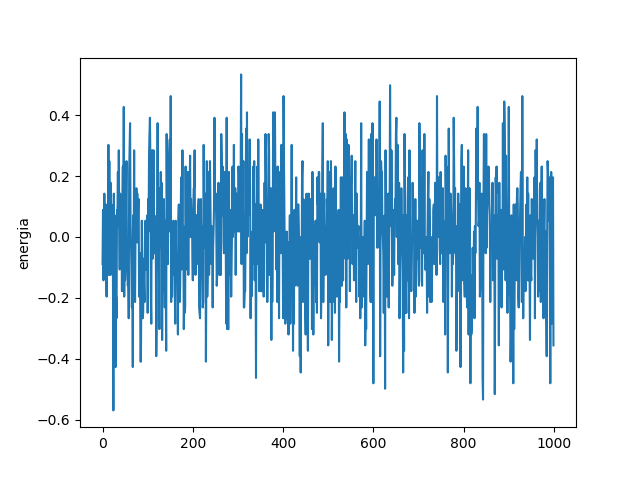
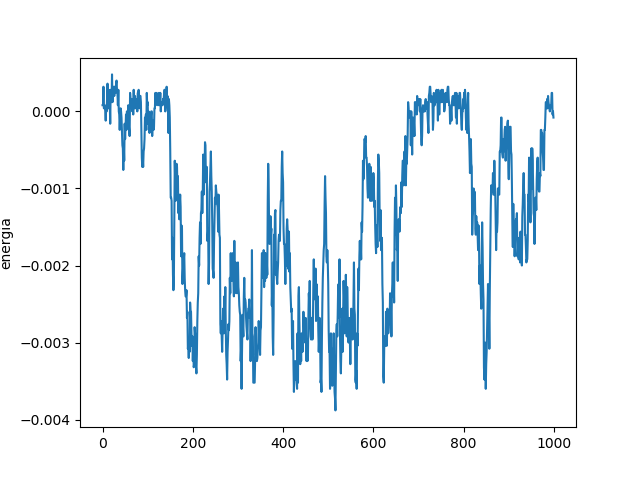
Add files via upload

diff --git a/model.py b/model.py
@@ -11,17 +11,17 @@ def sistema(x):
     return red
     
 #funcion que mide la magnetizacion presente en la red
-def med_magnetizacion(red,x):
+def med_magnetizacion(red):
     m=np.sum(red)
-    return m/x**2
+    return m
 
 #funcion que calcula la energia del sistema sin el efecto del campo magnetico
-def energia(red,x):
+def energia(red):
     e=0
-    for i in range(x):
-        for j in range(x):
-            e += -1*red[i,j]*(red[fronteras(i-1),j] + red[fronteras(i+1),j]) + red[i,fronteras(j+1)] + red[i,fronteras(j-1)]
-    return e/x**2
+    for i in range(len(red)):
+        for j in range(len(red)):
+            e += -red[i,j]*(red[fronteras(i-1),j] + red[fronteras(i+1),j]) + red[i,fronteras(j+1)] + red[i,fronteras(j-1)]
+    return e
 
 #condiciones de frontera, se aplican las condiciones de manera vertical y horizontal en la red de forma independiente
 def fronteras(p):
@@ -43,19 +43,20 @@ def cambioespin(red,beta):
             #se invierten los espines de la red
             inversion = -red[a,b]
             #se reliza el calculo de la energia de la red
-            energia = (inversion-red[a,b])*spin_value
+            energia = 2*red[a,b]*spin_value
             #se prueban las condiciones sugeridas en la tarea
-            if energia <= 0:
+            if energia < 0:
                 red[a,b] = -red[a,b]
-            elif np.exp(-beta**energia) > np.random.rand():
+            elif np.exp(-beta*energia) > np.random.rand():
                 red[a,b] = -red[a,b]
+    return red
 
 #tamaño de la red:
-x=15
+x=10
 #distintos valores de tempertura
-t_0=40
+t_0=100
 #valores de temperatura
-t=np.linspace(1,5,t_0)
+t=np.linspace(1,4,t_0)
 #creacion de la red
 red = sistema(x)
 #repeticiones a realizar para la estabilizacion de la energia
@@ -76,8 +77,8 @@ for j in range(p_0):
 	cambioespin(red2,beta_0)
 for j in range(p):
 	cambioespin(red2,beta_0)
-	e_lista_prueba[j] = energia(red2,x)
-plt.plot(e_lista_prueba)
+	e_lista_prueba[j] = energia(red2)
+plt.plot(e_lista_prueba/(p_0*x*x))
 plt.ylabel("energia")
 plt.savefig("evolucion_energia")
 plt.close()
@@ -95,14 +96,14 @@ for i in range(t_0):
 	#evolucion del estado una vez se encuentra estable
 	for j in range(p):
 		cambioespin(red,beta)
-		e_0 = energia(red,x)
-		m_0 = med_magnetizacion(red,x)
+		e_0 = energia(red)
+		m_0 = med_magnetizacion(red)
 		e_1 += e_0
 		m_1 += m_0
 	e[i] = e_1/(p*x*x)
 	m[i] = m_1/(p*x*x)
 #realizacion de la grafica pedida para la magnetizacion
-plt.plot(t,m)
+plt.scatter(t,m)
 plt.xlabel("temperatura")
 plt.ylabel("magnetizacion")
 plt.savefig("grafica_magnetizacion_temperatura")
